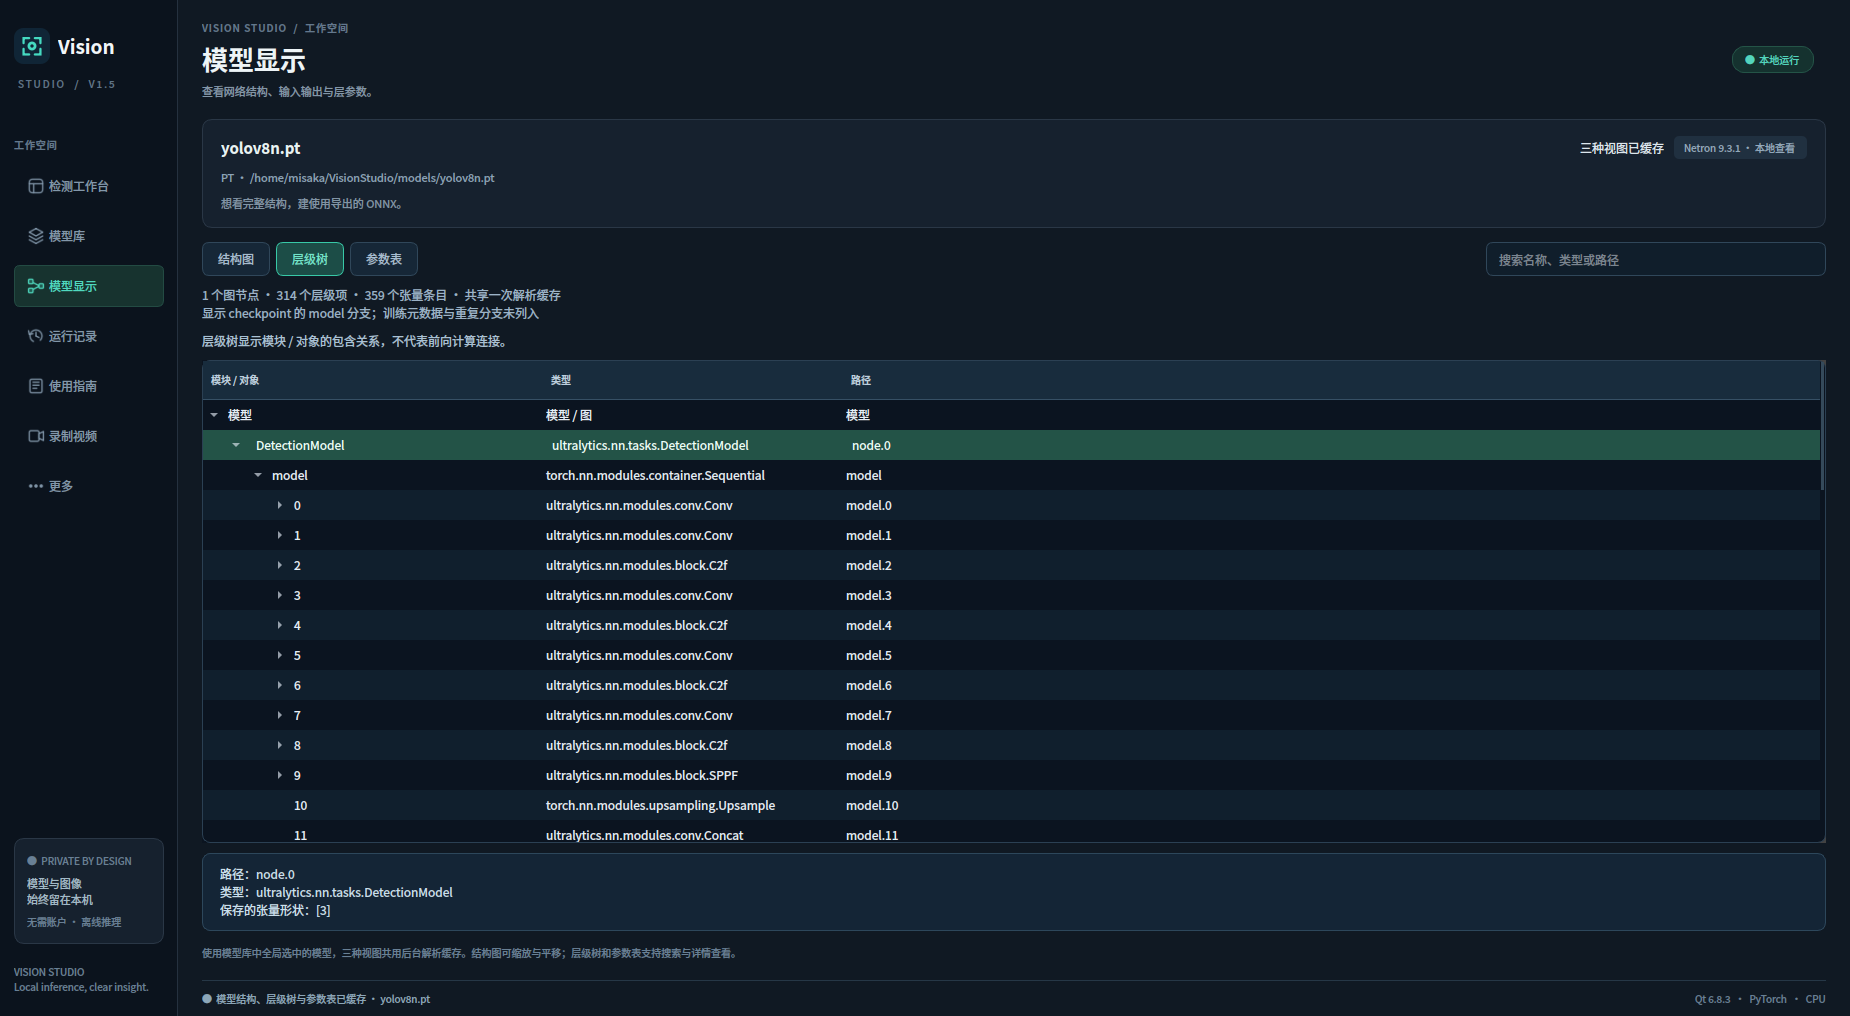
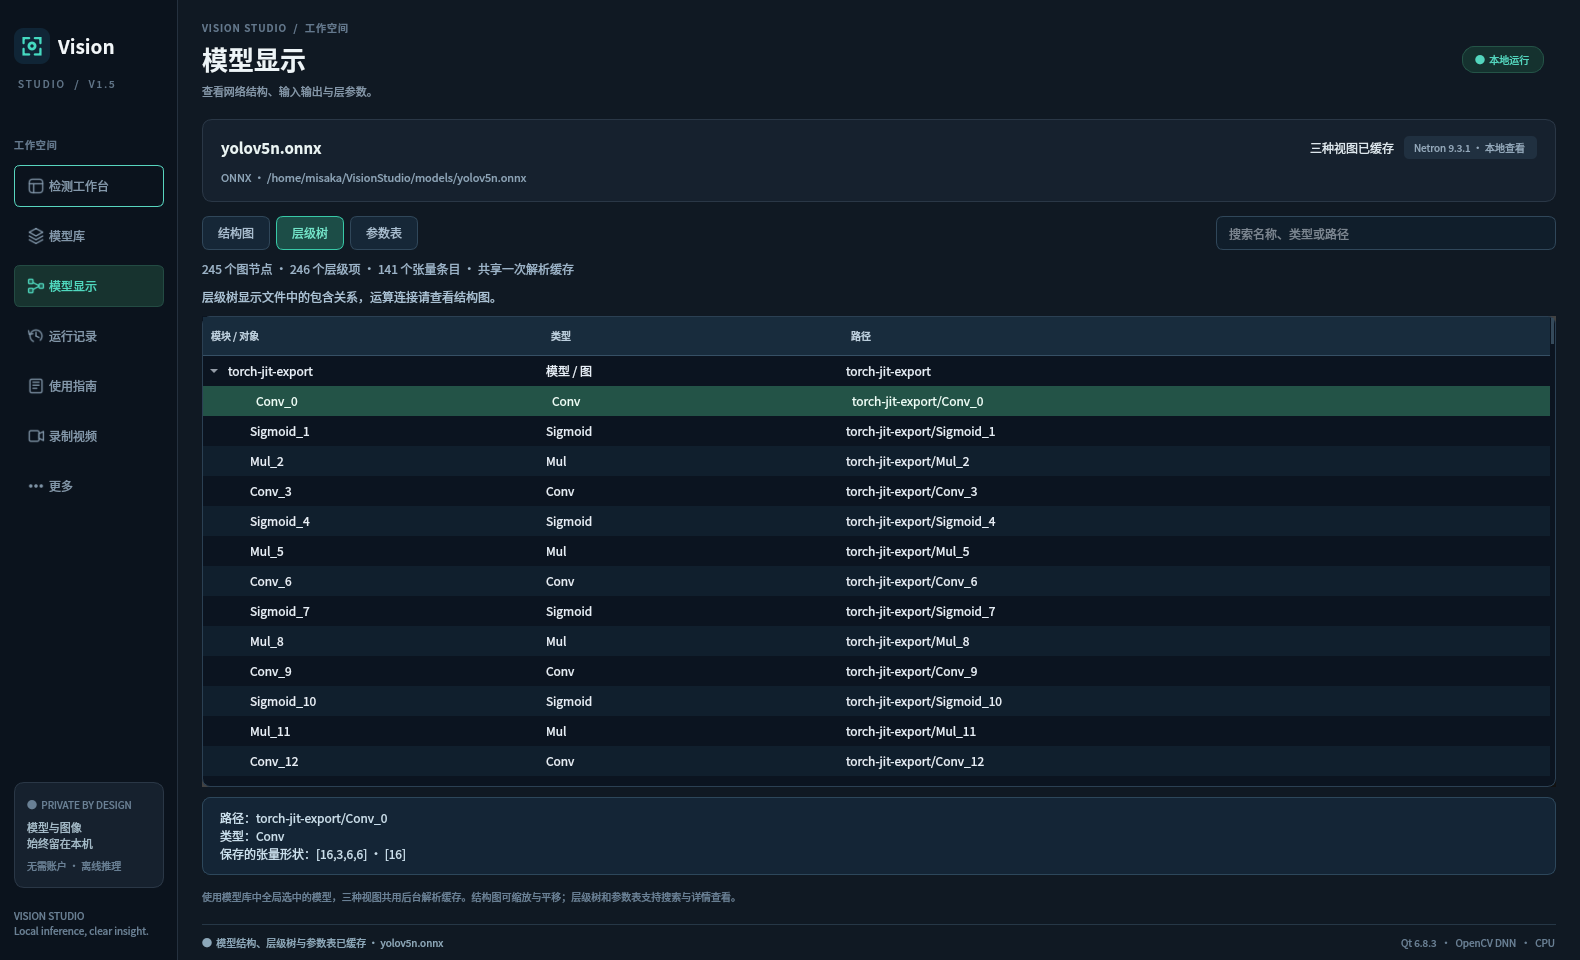
docs: refresh V1.5 workbench and ONNX hierarchy screenshots

diff --git a/README.md b/README.md
@@ -6,7 +6,7 @@
 
 当前应用版本：**1.5.0**。正式发行平台：**Ubuntu 22.04 LTS amd64**。应用代码采用 **AGPL-3.0-only**。
 
-![检测工作台](docs/preview.png)
+![V1.5 检测工作台：ONNX 模型检测示例](docs/preview.png)
 
 ## 功能
 
@@ -17,7 +17,7 @@
 - **标注与录制**：检测框、类别、置信度、缩放和平移；保存 PNG / JSON / CSV。视频和摄像头可开始／结束录制，在「录制视频」页浏览、播放和导出。
 - **运行记录与更多**：保留处理记录、模型和耗时；「更多」集中提供运行示例与手动导出。
 
-![V1.5 PT 模型层级树](docs/model-hierarchy.png)
+![V1.5 ONNX 模型层级树](docs/model-hierarchy.png)
 
 普通 PT 的层级树表示文件可解析的模块包含关系，裸权重按名称分组；参数表列出权重、常量和缓冲，不能直接作为可训练参数总量。ONNX 更适合查看完整运算连接。不支持或损坏的模型会显示文字说明。详细范围见 [模型说明](docs/模型说明.md)。
 

diff --git a/CHANGELOG.md b/CHANGELOG.md
@@ -12,6 +12,7 @@
 - 补充 GitHub README、贡献指南和版本管理规范，约定不可变标签、配套源码交付与远端核验后本地保留最新两版。
 - 增加带草稿续传、远端 SHA256 与标签校验的发布工具、清理安全测试、只读 CI 和问题／PR 模板；启用主线及版本标签保护。
 - 按维护者要求将每版 Release 整理为 DEB、完整源码包、`SHA256SUMS` 三个手动附件，保留 GitHub 自动生成的 Source code (zip) 与 Source code (tar.gz) 两个入口；同版 QA 和原始说明迁入仓库 `docs/releases/evidence/X.Y.Z`，保持冻结安装包、源码包及原始校验值不变。
+- 重新截取 V1.5 检测工作台及 ONNX 模型层级树，更新 README 产品展示图片。
 
 这些是仓库维护内容，不改变已冻结的 1.5.0 应用或安装包。后续产品变更记录在本段，正式发布时移入对应版本条目。
 
